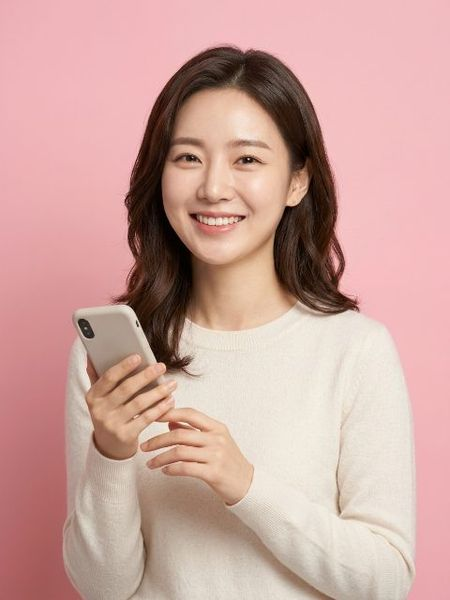
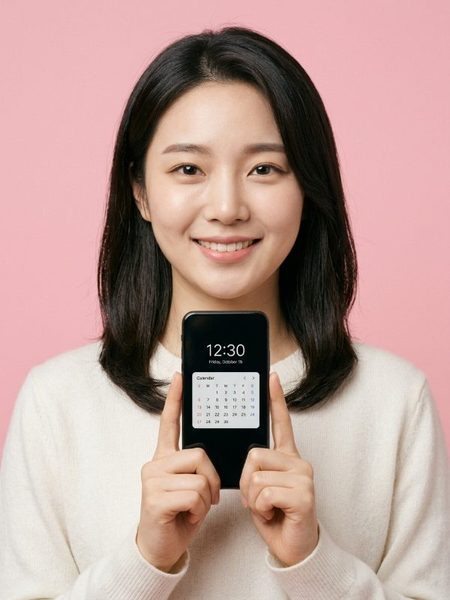
홈: 정면 확대 실사 사진 교체, 흰 카드 비율 60%, 그림 확대
Claude-Session: https://claude.ai/code/session_01CNy8ZXRNrjaZgeTT4TyaJt

diff --git a/build/patch_site.py b/build/patch_site.py
@@ -163,6 +163,12 @@ ul.hl-cards li.fp .fi{position:absolute;left:0;right:0;bottom:0;top:96px;height:
 ul.hl-cards li.fp .fh{position:relative;z-index:1}
 ul.hl-cards li.fp:not(.fd) .fh,ul.hl-cards li.fp:not(.fd) .fh b,ul.hl-cards li.fp:not(.fd) .fh em{color:#111!important}
 ul.hl-cards li.fp .go{z-index:2}
+ul.hl-cards .th{overflow:hidden}
+ul.hl-cards .th img:not(.pg){transform:scale(1.32);transform-origin:center 40%}
+ul.hl-cards .ft:not(.fp) .fi{position:absolute;left:-30px;right:-46px;bottom:-26px;top:70px;height:auto;margin:0;background-size:cover;background-position:center bottom}
+ul.hl-cards .ft:not(.fp) a{overflow:hidden}
+ul.hl-cards li.fp .fi{background-position:center 8%!important}
+ul.hl-cards li.ph:not(.pw) a{background-size:auto 80%!important}
 ul.hl-cards li.hl-rv,ul.hl-cards li{opacity:1!important;transform:none!important}
 ul.hl-cards b{font-size:15px!important;line-height:1.4;margin:12px 14px 0;display:-webkit-box;-webkit-line-clamp:2;-webkit-box-orient:vertical;overflow:hidden}
 ul.hl-cards span{font-size:12.5px!important;margin:5px 14px 14px!important;display:-webkit-box;-webkit-line-clamp:2;-webkit-box-orient:vertical;overflow:hidden}
@@ -195,7 +201,7 @@ ul.hl-cards .ft a{position:relative}
                 return m.group(1)
             if i % 5 == 3:
                 return m.group(1).replace('<a ', f'<a class="tx" style="--tc:{PAL[(i + 2) % len(PAL)]}" ', 1) + '<img class="pg" src="/assets/art/cat2-' + cat + '.svg" alt="" width="34" height="34" loading="lazy">'
-            if i % 5 in (1, 4):
+            if i % 5 in (0, 1, 4):
                 bgc = '#fff'
             else:
                 bgc = PAL[i % len(PAL)]
@@ -222,7 +228,7 @@ ul.hl-cards .ft a{position:relative}
                     stack = f'<li class="stk">{mini(RAW[2], ["#FFE066", "#D0BFFF", "#FFD8A8", "#B2F2BB"][k % 4])}{mini(RAW[3], ["#5F3DC4", "#0B7285", "#C2255C", "#1864AB"][k % 4])}</li>'
                     r = RAW[5]
                     ri = cnt[2]; cnt[2] += 1
-                    PH = [('p-woman', '#EBAEB5'), ('p-man', '#9ECDDD'), ('p-student', '#E5D290'), ('p-office', '#B8E3D0')]
+                    PH = [('p-woman', '#EBB7BB'), ('p-man', '#9ECDDD'), ('p-student', '#E9DA99'), ('p-office', '#87BCAC')]
                     if ri % 2 == 0:
                         ph, bc = PH[(ri // 2) % 4]
                         pers = (f'<li class="pc ph"><a href="{r[0]}" style="--tc:{bc};--im:url(/assets/art/ph/{ph}.jpg)"><b>{r[1]}</b><span>{r[2]}</span></a></li>')
@@ -233,7 +239,7 @@ ul.hl-cards .ft a{position:relative}
                     pic = (f'<li class="pt"><a href="{r[0]}"><b>{r[1]}</b><span>{r[2]}</span>'
                            f'<i class="pi" style="background-image:url(/assets/art/hl/picto.svg)"></i></a></li>')
                     items = items[:2] + [stack] + items[4:5] + [pers] + items[6:7] + [pic] + items[8:]
-                    BIG = {'study': ('il-kid', '#432115'), 'ai': ('il-monkey', '#4E7D53'), 'calendar': ('phone-dark', '#394144'), 'sheet': ('phone-green', '#40C957')}
+                    BIG = {'study': ('il-kid', '#432115'), 'ai': ('il-monkey', '#4E7D53'), 'calendar': ('phone-dark', '#394144'), 'sheet': ('phone-green', '#028841')}
                     if cat in BIG and len(RAW) > 9:
                         r = RAW[9]; ph, bc = BIG[cat]
                         big = f'<li class="pc ph pw"><a href="{r[0]}" style="--tc:{bc};--im:url(/assets/art/ph/{ph}.jpg)"><b>{r[1]}</b><span>{r[2]}</span></a></li>'
@@ -242,8 +248,8 @@ ul.hl-cards .ft a{position:relative}
             href = f'/{cat}/' if cat != 'pop' else '/#search'
             img = f'/assets/art/hl/ft-{cat}.svg'
             sub = f'도구 {n}가지' if cat != 'pop' else '자주 찾는 도구'
-            FTPH = {'image': ('p-woman', '#EBAEB5'), 'text': ('p-man', '#9ECDDD'), 'study': ('p-student', '#E5D290'),
-                    'doc': ('p-office', '#B8E3D0'), 'calendar': ('phone-dark', '#394144'), 'sheet': ('phone-green', '#40C957')}
+            FTPH = {'image': ('p-woman', '#EBB7BB'), 'text': ('p-man', '#9ECDDD'), 'study': ('p-student', '#E9DA99'),
+                    'doc': ('p-office', '#87BCAC'), 'calendar': ('phone-dark', '#394144'), 'sheet': ('phone-green', '#028841')}
             if cat in FTPH:
                 ph, bc = FTPH[cat]
                 dark = cat in ('calendar', 'sheet')
@@ -293,7 +299,7 @@ ul.hl-catrow a.ct{position:relative;height:300px;background:var(--bg)!important;
 ul.hl-catrow a.ct .ch{display:block!important;margin:0!important;padding:18px 18px 0;-webkit-line-clamp:unset;overflow:visible!important}
 ul.hl-catrow a.ct em{display:block;font-style:normal;font-size:12px;font-weight:700;color:#333}
 ul.hl-catrow a.ct b{margin:4px 0 0!important;font-size:19px!important;color:#111!important;line-height:1.3}
-ul.hl-catrow a.ct .ci{position:absolute;left:-14px;right:-14px;bottom:4px;height:222px;background-repeat:no-repeat;background-size:contain;background-position:center bottom;transition:transform .3s}
+ul.hl-catrow a.ct .ci{position:absolute;left:-40px;right:-40px;bottom:-30px;height:270px;background-repeat:no-repeat;background-size:contain;background-position:center bottom;transition:transform .3s}
 ul.hl-catrow a.ct:hover .ci{transform:scale(1.05)}
 ul.hl-catrow a.ct .go{position:absolute;right:12px;bottom:12px;width:28px;height:28px;border-radius:50%;background:rgba(255,255,255,.95);color:#111;display:flex;align-items:center;justify-content:center;font-size:16px;font-weight:700;margin:0!important}
 @media (max-width:600px){ul.hl-catrow>li{flex-basis:200px}ul.hl-catrow a.ct{height:270px}ul.hl-catrow a.ct .ci{height:180px}}
